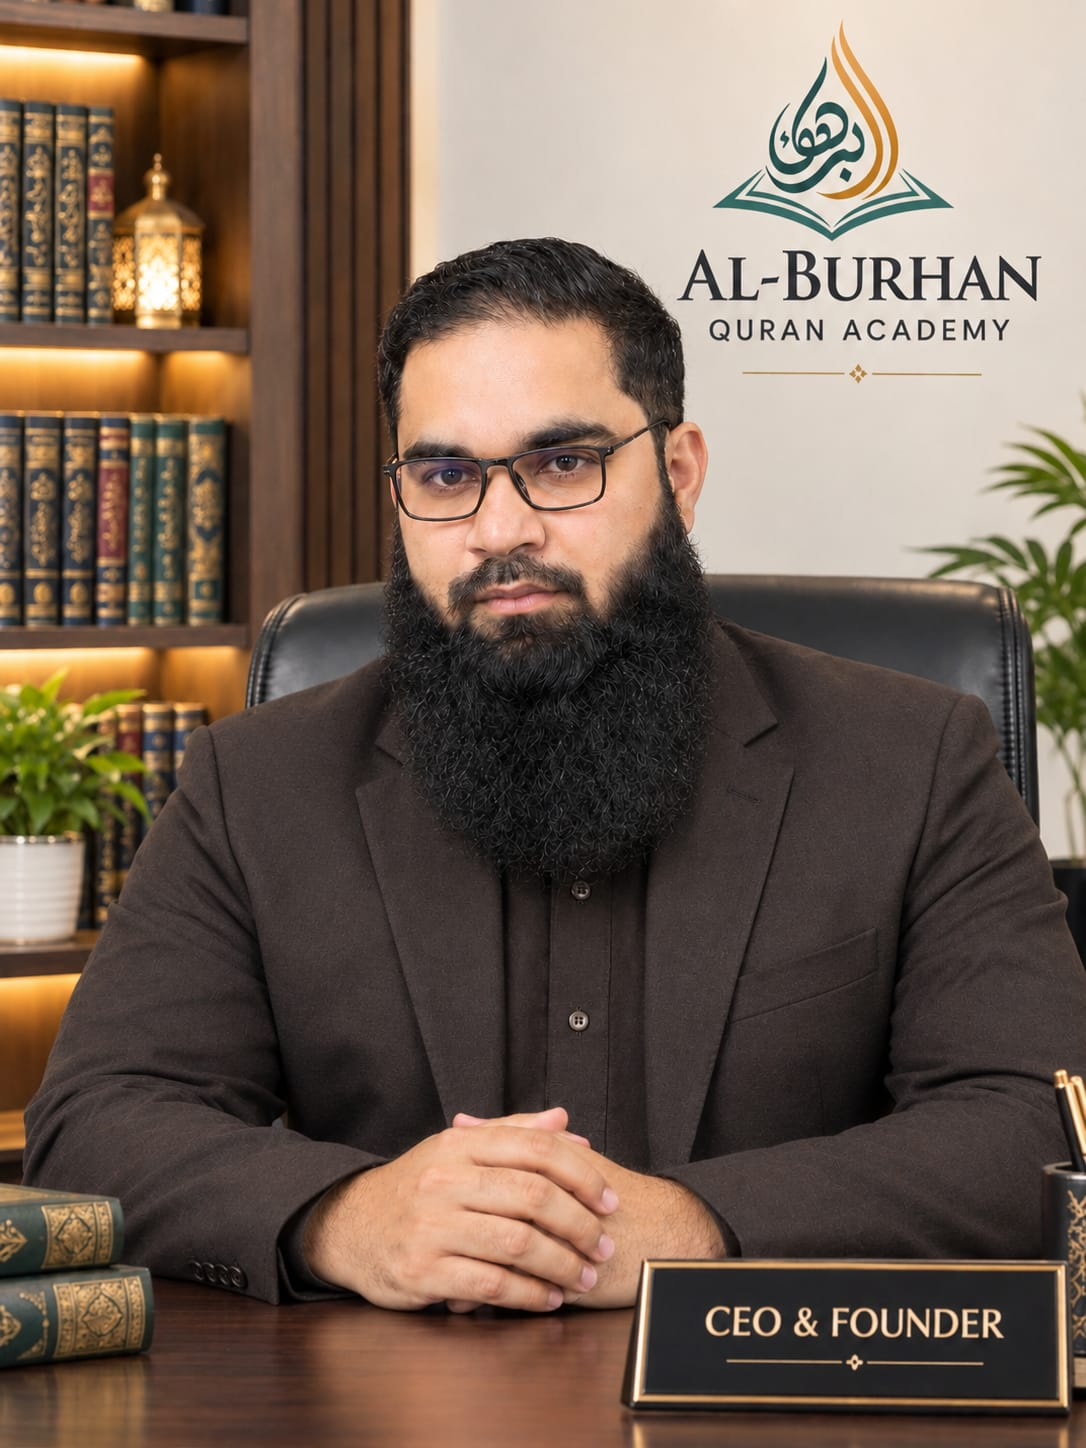
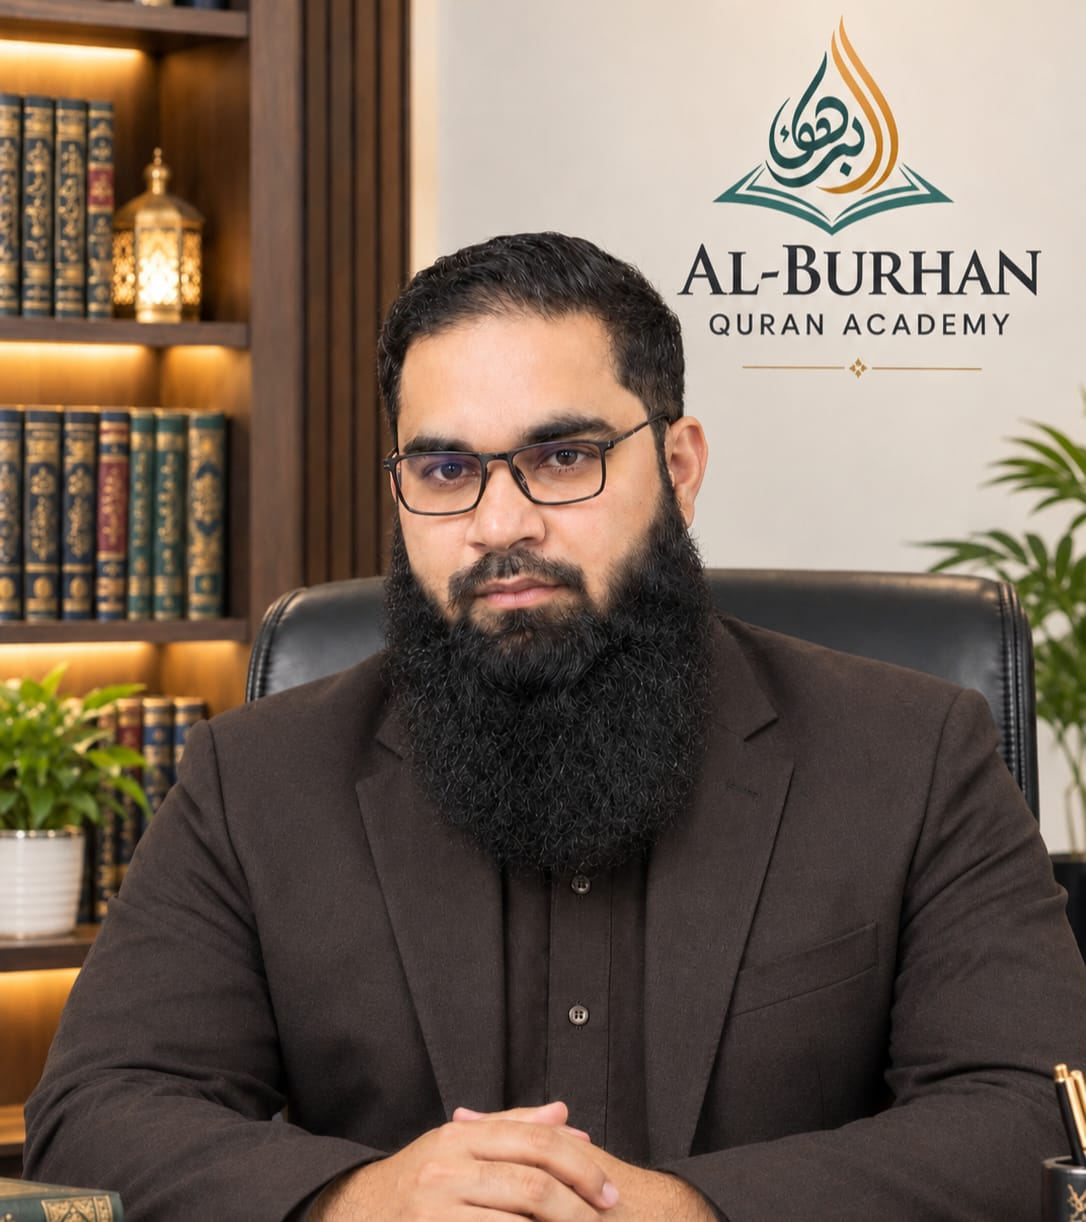
update more

diff --git a/src/components/about/AboutHeroAlt.tsx b/src/components/about/AboutHeroAlt.tsx
@@ -11,57 +11,12 @@ export default function AboutHeroAlt() {
             "repeating-linear-gradient(135deg, var(--color-sky) 0px, var(--color-sky) 1px, transparent 1px, transparent 64px)",
         }}
       />
-      <div className="absolute top-0 right-0 w-[520px] h-[520px] rounded-full bg-[var(--color-sky)]/10 blur-3xl pointer-events-none" />
+      <div className="absolute top-0 left-0 w-[520px] h-[520px] rounded-full bg-[var(--color-sky)]/10 blur-3xl pointer-events-none" />
 
-      <div className="relative max-w-7xl mx-auto grid lg:grid-cols-[1fr_1.05fr] gap-14 items-center">
+      <div className="relative max-w-7xl mx-auto grid lg:grid-cols-[1.05fr_1fr] gap-14 items-center">
 
-        {/* Left — CEO portrait, mirrored to the left side */}
-        <div className="relative flex justify-center lg:justify-start order-2 lg:order-1">
-          <div className="relative w-full max-w-[400px] mt-8 mb-10">
-
-            {/* Rotated accent card behind the photo — dynamic, stacked-photograph feel */}
-            <div className="absolute inset-0 rounded-2xl bg-[var(--color-accent)]/90 -rotate-3 pointer-events-none" />
-            <div className="absolute inset-0 rounded-2xl border-2 border-[var(--color-sky)]/50 rotate-2 pointer-events-none" />
-
-            {/* Large quote-mark watermark, personal-brand accent */}
-            <svg
-              className="absolute -top-10 -left-8 w-20 h-20 text-[var(--color-sky)]/25 pointer-events-none"
-              fill="currentColor"
-              viewBox="0 0 24 24"
-            >
-              <path d="M4.583 17.321C3.553 16.227 3 15 3 13.011c0-3.5 2.457-6.637 6.03-8.188l.893 1.378c-3.335 1.804-3.987 4.145-4.247 5.621.537-.278 1.24-.375 1.929-.311 1.804.167 3.226 1.648 3.226 3.489a3.5 3.5 0 01-3.5 3.5c-1.073 0-2.099-.49-2.748-1.179zm10 0C13.553 16.227 13 15 13 13.011c0-3.5 2.457-6.637 6.03-8.188l.893 1.378c-3.335 1.804-3.987 4.145-4.247 5.621.537-.278 1.24-.375 1.929-.311 1.804.167 3.226 1.648 3.226 3.489a3.5 3.5 0 01-3.5 3.5c-1.073 0-2.099-.49-2.748-1.179z" />
-            </svg>
-
-            {/* Photo card — aspect-[3/4] matches the source image exactly, never cropped */}
-            <div className="relative w-full aspect-[3/4] rounded-2xl overflow-hidden border border-white/10 shadow-[0_25px_60px_rgba(0,0,0,0.55)]">
-              <Image
-                src="/Alburhan CEO.jpeg"
-                alt="Prof. H. Ateeq ur Rehman — Founder &amp; CEO, AL Burhan Quran Academy"
-                fill
-                sizes="(max-width: 1024px) 85vw, 400px"
-                className="object-cover object-center"
-                priority
-              />
-              <div className="absolute inset-0 mix-blend-soft-light bg-gradient-to-t from-[var(--color-accent)]/40 via-transparent to-[var(--color-sky)]/30 pointer-events-none" />
-            </div>
-
-            {/* Side name badge — runs along the bottom edge, overlapping the accent card */}
-            <div className="absolute -bottom-8 -right-6 bg-[var(--color-surface)] border border-white/10 rounded-xl px-5 py-4 shadow-xl flex items-center gap-3 max-w-[85%]">
-              <div className="w-10 h-10 rounded-lg bg-[var(--color-sky)]/15 flex items-center justify-center text-[var(--color-sky)] shrink-0">
-                <svg className="w-5 h-5" fill="none" stroke="currentColor" viewBox="0 0 24 24" strokeWidth={1.8}>
-                  <path strokeLinecap="round" strokeLinejoin="round" d="M4.26 10.147a60.436 60.436 0 00-.491 6.347A48.62 48.62 0 0112 20.904a48.62 48.62 0 018.232-4.41 60.46 60.46 0 00-.491-6.347m-15.482 0a50.636 50.636 0 00-2.658-.813A59.906 59.906 0 0112 3.493a59.903 59.903 0 0110.399 5.84c-.896.248-1.783.52-2.658.814m-15.482 0A50.717 50.717 0 0112 13.489a50.702 50.702 0 017.74-3.342M6.75 15a.75.75 0 100-1.5.75.75 0 000 1.5zm0 0v-3.675A55.378 55.378 0 0112 8.443m-7.007 11.55A5.981 5.981 0 006.75 15.75v-1.5" />
-                </svg>
-              </div>
-              <div className="min-w-0">
-                <p className="text-white font-bold text-sm md:text-base leading-snug truncate">Prof. H. Ateeq ur Rehman</p>
-                <p className="text-[var(--color-sky)] text-xs font-semibold tracking-[0.15em] uppercase mt-0.5">Founder &amp; CEO</p>
-              </div>
-            </div>
-          </div>
-        </div>
-
-        {/* Right — text */}
-        <div className="flex flex-col gap-6 order-1 lg:order-2">
+        {/* Left — text */}
+        <div className="flex flex-col gap-6">
           <div className="flex items-center gap-3">
             <span className="w-8 h-[2px] bg-[var(--color-accent)]" />
             <p className="text-[var(--color-sky)] uppercase tracking-[0.3em] text-xs md:text-sm font-semibold">
@@ -86,6 +41,51 @@ export default function AboutHeroAlt() {
               We believe that by spreading true knowledge of the Quran, we can contribute towards building a
               stronger Ummah and a more peaceful and positive society.
             </p>
+          </div>
+        </div>
+
+        {/* Right — CEO portrait */}
+        <div className="relative flex justify-center lg:justify-end">
+          <div className="relative w-full max-w-[400px] mt-8 mb-10">
+
+            {/* Rotated accent card behind the photo — dynamic, stacked-photograph feel */}
+            <div className="absolute inset-0 rounded-2xl bg-[var(--color-accent)]/90 rotate-3 pointer-events-none" />
+            <div className="absolute inset-0 rounded-2xl border-2 border-[var(--color-sky)]/50 -rotate-2 pointer-events-none" />
+
+            {/* Large quote-mark watermark, personal-brand accent */}
+            <svg
+              className="absolute -top-10 -right-8 w-20 h-20 text-[var(--color-sky)]/25 pointer-events-none"
+              fill="currentColor"
+              viewBox="0 0 24 24"
+            >
+              <path d="M4.583 17.321C3.553 16.227 3 15 3 13.011c0-3.5 2.457-6.637 6.03-8.188l.893 1.378c-3.335 1.804-3.987 4.145-4.247 5.621.537-.278 1.24-.375 1.929-.311 1.804.167 3.226 1.648 3.226 3.489a3.5 3.5 0 01-3.5 3.5c-1.073 0-2.099-.49-2.748-1.179zm10 0C13.553 16.227 13 15 13 13.011c0-3.5 2.457-6.637 6.03-8.188l.893 1.378c-3.335 1.804-3.987 4.145-4.247 5.621.537-.278 1.24-.375 1.929-.311 1.804.167 3.226 1.648 3.226 3.489a3.5 3.5 0 01-3.5 3.5c-1.073 0-2.099-.49-2.748-1.179z" />
+            </svg>
+
+            {/* Photo card — aspect ratio matches the source image exactly, never cropped */}
+            <div className="relative w-full aspect-[1086/1222] rounded-2xl overflow-hidden border border-white/10 shadow-[0_25px_60px_rgba(0,0,0,0.55)]">
+              <Image
+                src="/Alburhan CEO.jpeg"
+                alt="Prof. H. Ateeq ur Rehman — Founder &amp; CEO, AL Burhan Quran Academy"
+                fill
+                sizes="(max-width: 1024px) 85vw, 400px"
+                className="object-cover object-center"
+                priority
+              />
+              <div className="absolute inset-0 mix-blend-soft-light bg-gradient-to-t from-[var(--color-accent)]/40 via-transparent to-[var(--color-sky)]/30 pointer-events-none" />
+            </div>
+
+            {/* Side name badge — runs along the bottom edge, overlapping the accent card */}
+            <div className="absolute -bottom-8 -left-6 bg-[var(--color-surface)] border border-white/10 rounded-xl px-5 py-4 shadow-xl flex items-center gap-3 max-w-[85%]">
+              <div className="w-10 h-10 rounded-lg bg-[var(--color-sky)]/15 flex items-center justify-center text-[var(--color-sky)] shrink-0">
+                <svg className="w-5 h-5" fill="none" stroke="currentColor" viewBox="0 0 24 24" strokeWidth={1.8}>
+                  <path strokeLinecap="round" strokeLinejoin="round" d="M4.26 10.147a60.436 60.436 0 00-.491 6.347A48.62 48.62 0 0112 20.904a48.62 48.62 0 018.232-4.41 60.46 60.46 0 00-.491-6.347m-15.482 0a50.636 50.636 0 00-2.658-.813A59.906 59.906 0 0112 3.493a59.903 59.903 0 0110.399 5.84c-.896.248-1.783.52-2.658.814m-15.482 0A50.717 50.717 0 0112 13.489a50.702 50.702 0 017.74-3.342M6.75 15a.75.75 0 100-1.5.75.75 0 000 1.5zm0 0v-3.675A55.378 55.378 0 0112 8.443m-7.007 11.55A5.981 5.981 0 006.75 15.75v-1.5" />
+                </svg>
+              </div>
+              <div className="min-w-0">
+                <p className="text-white font-bold text-sm md:text-base leading-snug truncate">Prof. H. Ateeq ur Rehman</p>
+                <p className="text-[var(--color-sky)] text-xs font-semibold tracking-[0.15em] uppercase mt-0.5">Founder &amp; CEO</p>
+              </div>
+            </div>
           </div>
         </div>
       </div>

diff --git a/src/components/about/AboutHero.tsx b/src/components/about/AboutHero.tsx
@@ -65,8 +65,8 @@ export default function AboutHero() {
             {/* Ambient glow directly behind the card */}
             <div className="absolute -inset-6 rounded-3xl bg-gradient-to-br from-[var(--color-sky)]/20 via-transparent to-[var(--color-accent)]/20 blur-2xl pointer-events-none" />
 
-            {/* Photo card — aspect-[3/4] matches the source image exactly, so it's never cropped */}
-            <div className="relative w-full aspect-[3/4] rounded-2xl overflow-hidden border border-white/10 shadow-[0_25px_60px_rgba(0,0,0,0.55)]">
+            {/* Photo card — aspect ratio matches the source image exactly, so it's never cropped */}
+            <div className="relative w-full aspect-[1086/1222] rounded-2xl overflow-hidden border border-white/10 shadow-[0_25px_60px_rgba(0,0,0,0.55)]">
               <Image
                 src="/Alburhan CEO.jpeg"
                 alt="Prof. H. Ateeq ur Rehman — Founder &amp; CEO, AL Burhan Quran Academy"

diff --git a/src/app/(public)/about/page.tsx b/src/app/(public)/about/page.tsx
@@ -1,9 +1,8 @@
-import AboutHero from "@/components/about/AboutHero";
+import AboutHeroAlt from "@/components/about/AboutHeroAlt";
 import TeamCarousel from "@/components/about/TeamCarousel";
 import VisionCarousel from "@/components/about/VisionCarousel";
 import MissionSection from "@/components/about/MissionSection";
 import ValuesSection from "@/components/about/ValuesSection";
-import AboutHeroAlt from "@/components/about/AboutHeroAlt";
 
 export const metadata = {
   title: "About Us | AL Burhan Quran Academy",
@@ -13,7 +12,6 @@ export const metadata = {
 export default function AboutPage() {
   return (
     <>
-      {/* <AboutHero /> */}
       <AboutHeroAlt />
       <TeamCarousel />
       <VisionCarousel />
